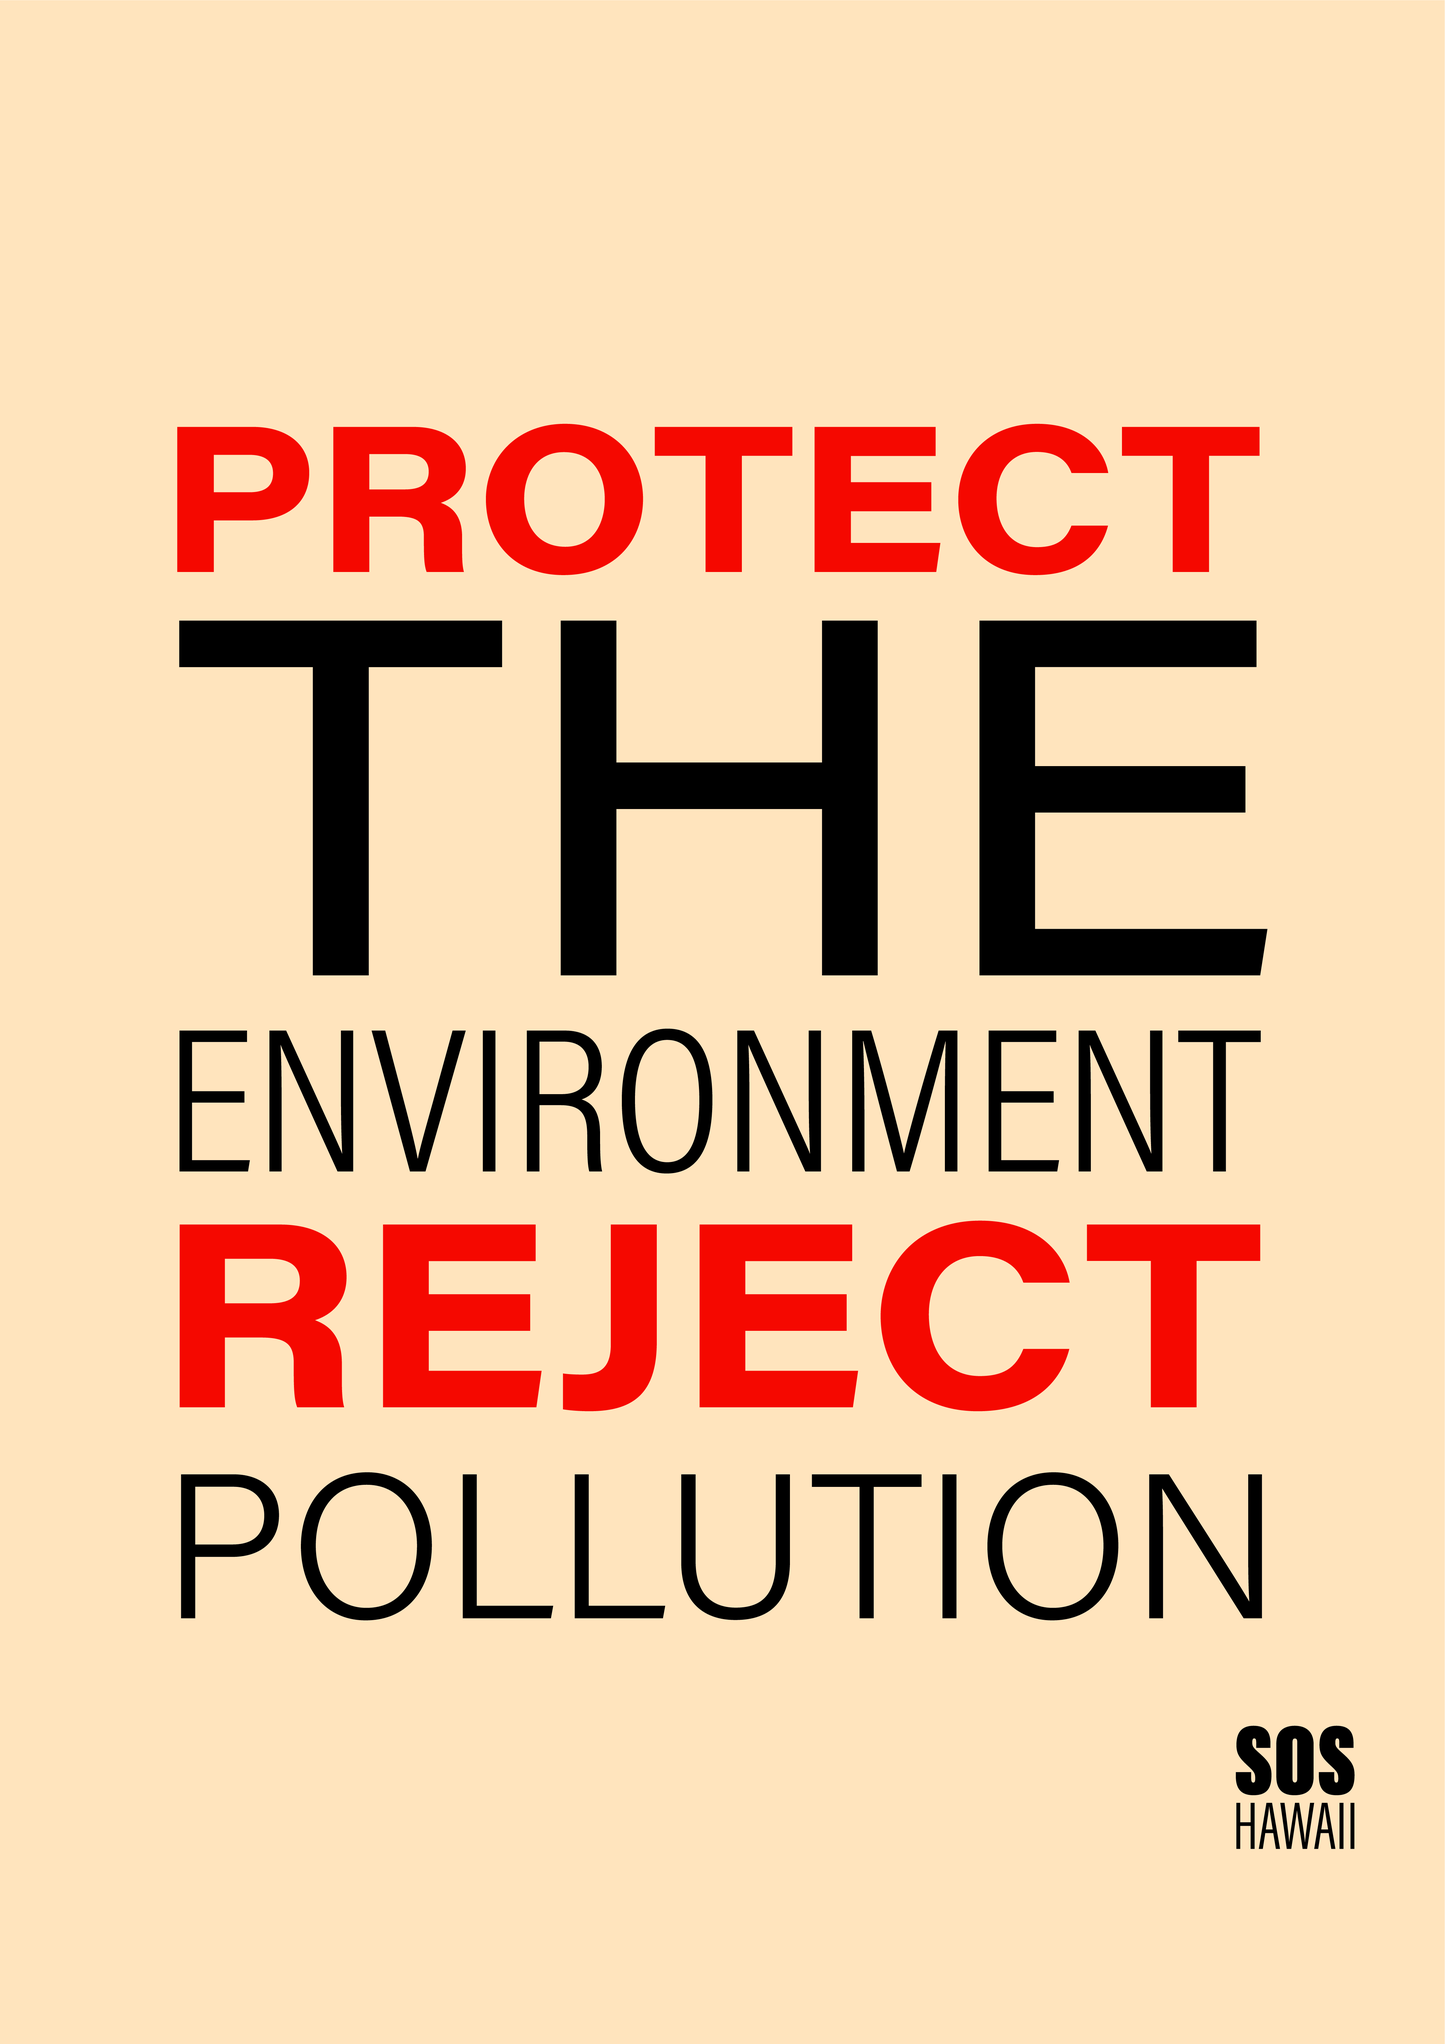
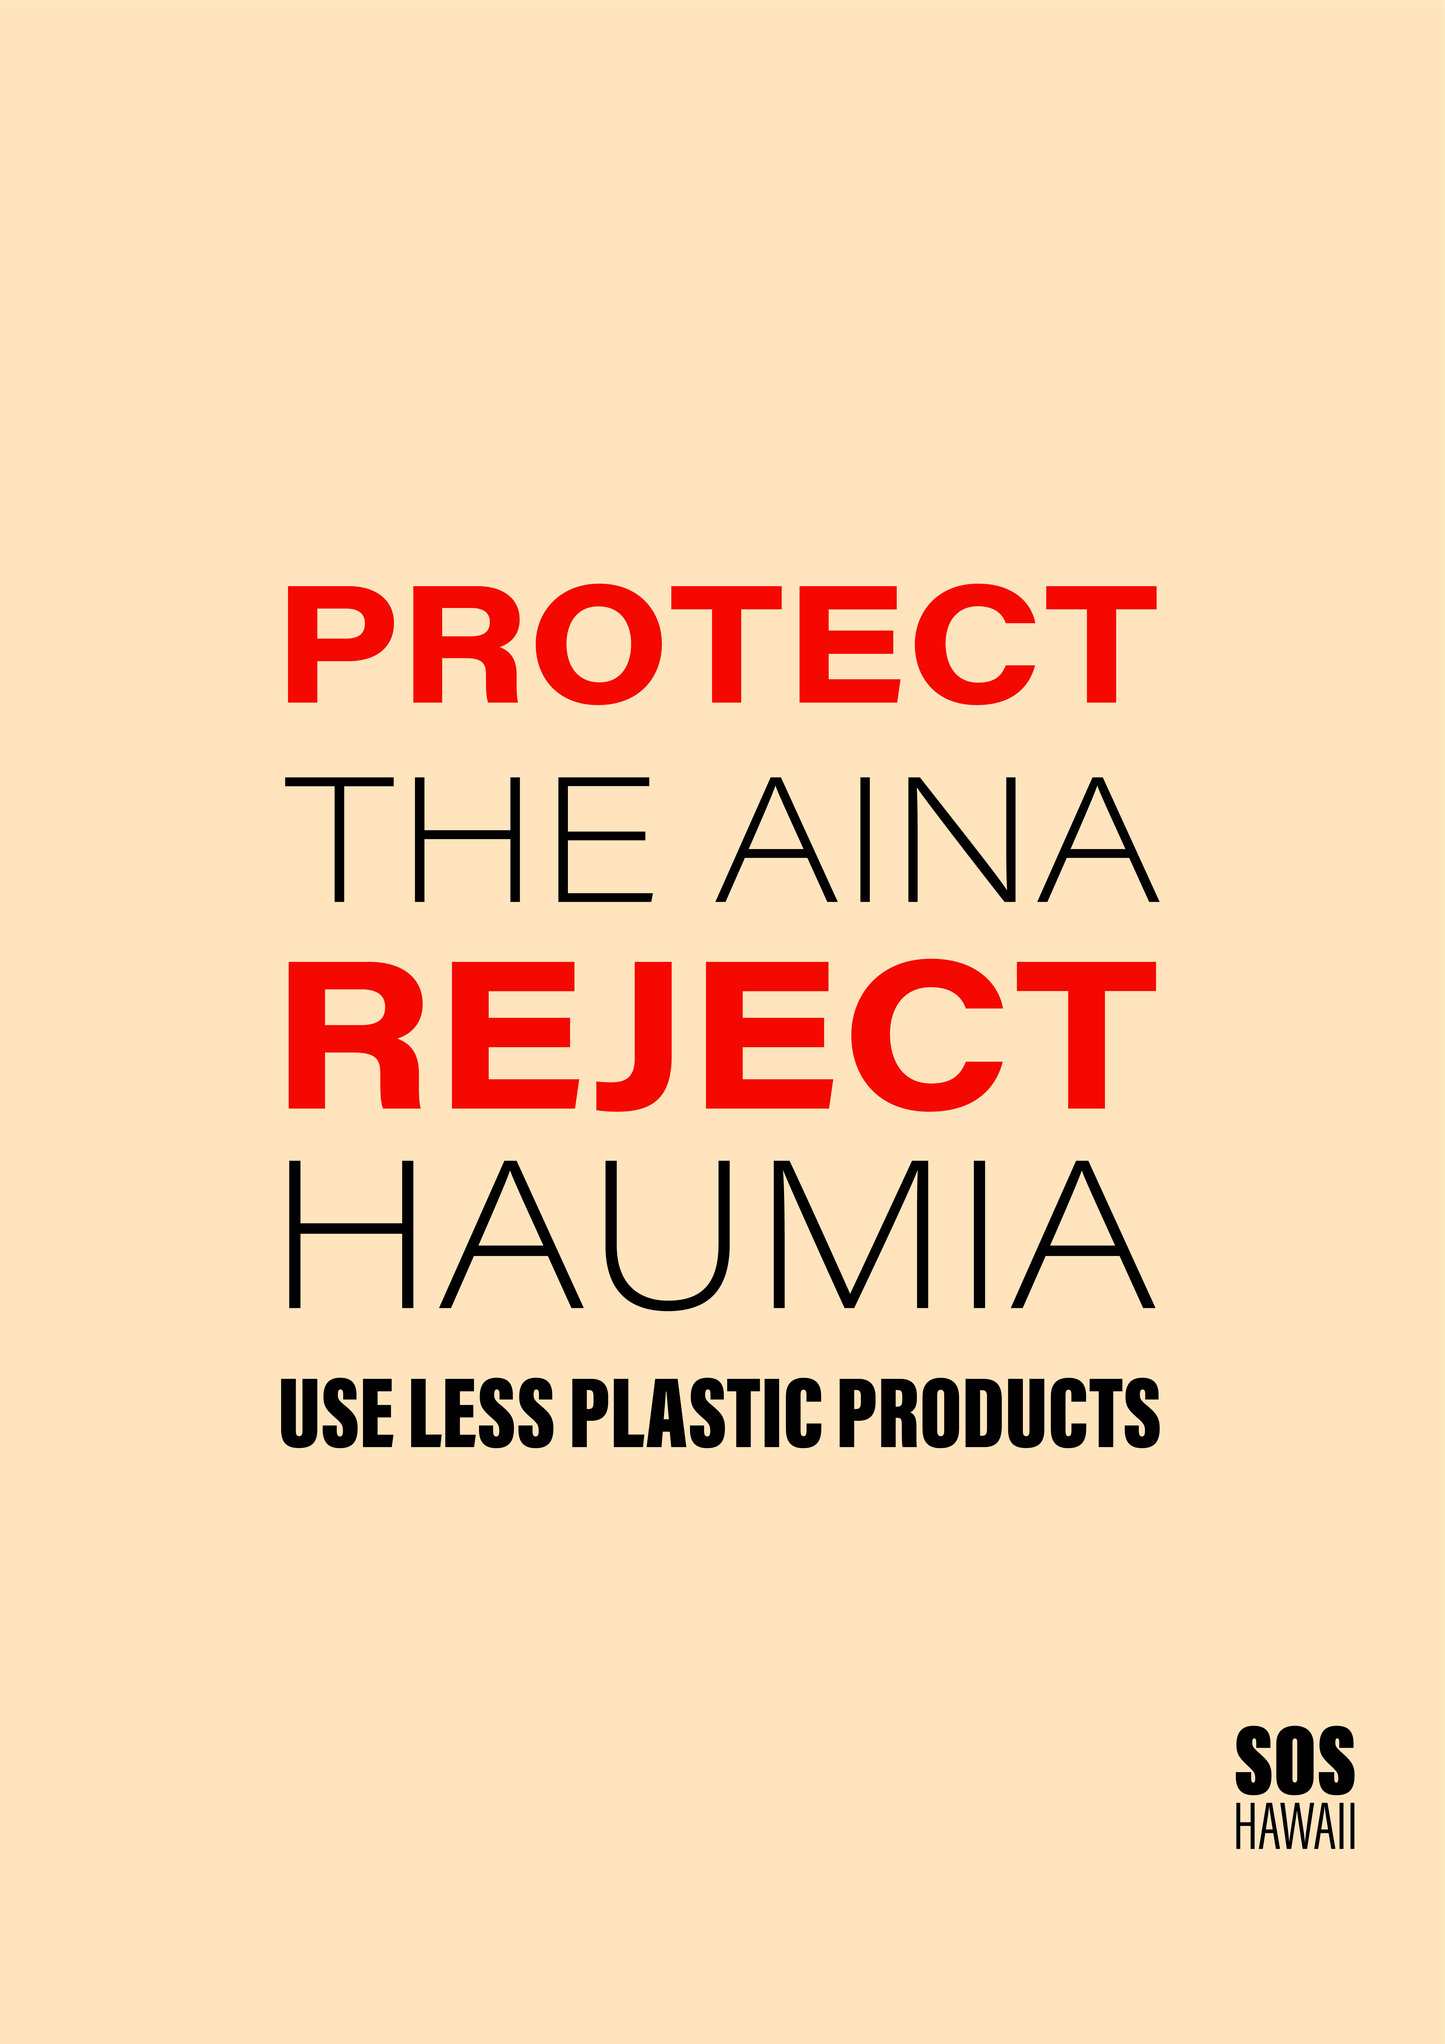
update

Changed region(s): [[0.1245, 0.1869, 0.8712, 0.8099]]

diff --git a/css/style.css b/css/style.css
@@ -397,9 +397,9 @@ h1.type {
 
 @media (min-width: 768px){
 
-  .projectinfo p {
+  /* .projectinfo p {
     columns: 2;
-  }
+  } */
 
   .meta-info .meta-list {
     columns: 2;
@@ -649,7 +649,7 @@ h1.type {
 @media (max-width: 320px) {
 
   .Iam {
-    padding: 2em 5em;
+    padding: auto 0;
     font: normal calc(12px + 1vw) "Montserrat", sans-serif;
     color: #fff;
     margin-left:6em;
@@ -739,7 +739,7 @@ h1.type {
     height: 250px;
     border-radius: 3px;
     overflow: hidden;
-    position: relative;
+    position: inline;
     box-shadow: 0 3px 6px rgba(0, 0, 0, 0.2);
   }
   .carousel:hover .controls {
@@ -764,13 +764,14 @@ h1.type {
     height: 40px;
     width: 40px;
     border-radius: 50%;
-    background-color: rgba(255, 255, 255, 0.7);
+    background-color: rgba(255,243,59,1);
     opacity: 0.5;
     transition: ease 0.3s;
    
   }
   .carousel .controls .control:hover {
     opacity: 1;
+    cursor: pointer;
   }
   .carousel .slides {
     position: absolute;
@@ -778,13 +779,126 @@ h1.type {
     transform: translateY(-50%);
     display: flex;
     width: 100%;
+    height: 100vh;
     transition: 1s ease-in-out all;
   }
   .carousel .slides .slide {
     min-width: 100%;
     min-height: 250px;
     height: auto;
+    background-image: url("/img/soshawaii-slide.png");
+    background-position-x: center;
+    background-repeat: no-repeat;
+
+  }
+  .carousel .slides .book {
+    min-width: 100%;
+    min-height: 250px;
+    height: auto;
+    background-image: url("/img/bookcovers-slide.png");
+    background-position-x: center;
+    background-repeat: no-repeat;
+  }
+
+  .carousel .slides .bangkok {
+    min-width: 100%;
+    min-height: 250px;
+    height: auto;
+    background-image: url("/img/bookcovers-slide.png");
+    background-position-x: center;
+    background-repeat: no-repeat;
   }
   .carousel.img {
     margin-top: -1em;
   }
+  @media (min-width: 500px) {
+    .hero.sos {
+    background-image: url("/soshawaii/img/PosterMockup1.png");
+    background-repeat: no-repeat;
+    background-size: cover;
+    background-position: center;
+  }
+}
+@media (max-width: 500px) {
+  .hero.sos {
+    background-image: url("/soshawaii/img/PosterMockup1-small.png");
+    background-repeat: no-repeat;
+    background-size: cover;
+    background-position: center;
+  }
+}
+
+@media (max-width: 500px) {
+  .hero.brochure {
+    background-image: url("/kobayashikiyochika/img/brochure\ front.png");
+    background-repeat: no-repeat;
+    background-size: cover;
+    background-position: center;
+  }
+}
+
+@media (max-width: 500px) {
+  .hero.brochure {
+    background-image: url("/img/bookcovers.jpg");
+    background-repeat: no-repeat;
+    background-size: cover;
+    background-position: center;
+  }
+}
+@media (max-width: 500px) {
+  .hero.happea {
+    background-image: url("/happea/img/JoannaYee_Happea_Packaging2.jpg");
+    background-repeat: no-repeat;
+    background-size: cover;
+    background-position: center;
+  }
+}
+@media (min-width: 768px) {
+  .row {
+    margin-left: -1%;
+    margin-right: -1%;
+    display: flex;
+    flex-wrap: wrap;
+    justify-content: center;
+  }
+  .row.swapped {
+    flex-direction: row-reverse;
+  }
+  .row.centered {
+    flex-direction: column;
+  }
+  .row.centered .column {
+    flex-grow: 0;
+  }
+  .row > .column {
+    margin: 0 1% 2% 1%;
+    flex-grow: 1;
+  }
+  .row > .column.one-half {
+    width: 48%;
+  }
+  .row > .column.one-third {
+    width: 31.3333%;
+  }
+  .row > .column.two-thirds {
+    width: 64.6666%;
+  }
+  .row > .column.one-fourth {
+    width: 23%;
+  }
+  .row > .column.three-fourths {
+    width: 73%;
+  }
+  .row > .column.push-one-third {
+    margin-left: 34.3333%;
+  }
+  .row > .column.push-one-fourth {
+    margin-left: 26%;
+  }
+  .row > .column.centered {
+    flex-grow: 0;
+  }
+}
+.one-half {
+  padding: 1.5em;
+}

diff --git a/soshawaii/index.html b/soshawaii/index.html
@@ -3,7 +3,7 @@
 
 <head>
     <meta charset="utf-8" />
-    <title>Joanna Yee | Rotoscope</title>
+    <title>Joanna Yee | Soshawaii</title>
     <meta name="description" content="This is a custom book cover that is part of John Doe's Portfolio" />
 
     <!-- VIEWPORT FOR MOBILE -->
@@ -37,8 +37,8 @@
 
     <main>
 
-        <section class="hero revealer">
-                  <img src="img/PosterMockup1.jpg"></img>
+        <section class="hero revealer sos">
+                  <!-- <img src="img/PosterMockup1.png"></img> -->
         </section>
 
 
@@ -46,7 +46,7 @@
             <div class="container revealer">
                 <h1 class="headline">Soshawaii</h1>
                 <h2 class="subheadline">Print and digital</h2>
-                <p> Soshawaii is a non-profit organization that serves to bring green-living awareness through green sustainability campaigns, community cleanups, and educational workshops.Their mission is to help people understand the environmental effects that take place on the island.</p>
+                <p> Soshawaii is a non-profit organization that serves to bring green-living awareness through green sustainability campaigns, community cleanups, and educational workshops. Their mission is to help people understand the environmental effects that take place on the island.</p>
                 <ul class="meta-list">
                     <li><span>Year:</span> Spring 2020</li>
                     <li><span>Medium:</span> Digital</li>
@@ -76,10 +76,10 @@
             <div class="container revealer">
                 <div class="subcontent-image">
                     <h1 class="head">Posters</h1>
-                    <img src="img/Posters-09.jpg"My Book Cover Designs Stacked" />
+                    <img src="img/Posters-9.jpg"My Book Cover Designs Stacked" />
                 </div>
                 <div class="subcontent-image">
-                    <img src="img/Posters-08.jpg"My Book Cover Designs Stacked" />
+                    <img src="img/Posters-8.jpg"My Book Cover Designs Stacked" />
                 </div>
                 <div class="subcontent-image">
                     <img src="img/Posters-10.jpg"My Book Cover Designs Stacked" />
@@ -90,23 +90,6 @@
             </div>
         </section>
         <a href="../index.html" class="button">See More Work</a>
-<!-- 
-        <section class="meta-info">
-            <div class="container revealer">
-                <div class="meta-text">
-                    <h3>About</h3>
-                    <p>Rotoscope project</p>
-                </div>
-                <ul class="meta-list">
-                    <li><span>Year:</span> Spring 2019</li>
-                    <li><span>Medium:</span> Digital</li>
-                    <li><span>Role:</span> Sole/principle Designer</li>
-                    <li><span>Software:</span> Photoshop and After Effects</li>
-                    <li><span>Tags:</span> Motion</li>
-                </ul>
-                <a href="../index.html" class="button">See More Work</a>
-            </div>
-        </section> -->
 
     </main>
 

diff --git a/index.html b/index.html
@@ -42,9 +42,11 @@
         <section class="home wrapper fade-in-and-down">
             <div class="carousel">
                 <div class="slides">
-                  <a href="bookcovers" img src="img/bookcovers.jpg" alt="slide image" class="slide"></a>
-                 <img src="img/citylogo_thumbnail.png" alt="slide image" class="slide">
-                  <img src="https://picsum.photos/1280/720?random=3" alt="slide image" class="slide">
+                  <a href="/bookcovers/" class="book"></a>
+
+                  <a href="/soshawaii/"  class="slide"></a>  
+        
+                  <a href="/soshawaii/"  class="slide"></a>
                 </div>
                 <div class="controls">
                   <div class="control prev-slide">&#9668;</div>
@@ -64,7 +66,7 @@
                a illustrator<br />
                <br />
                 <br />
-                a person
+                a creative thinker
                 </div>
             </b>
             
@@ -82,10 +84,10 @@
                 <div class="thumbgrid mixcontainer fade-and-move-in">
                     <a href="rotoscope/index.html" class="mix motion" title="Rotoscope | Motion"><img src="img/rotoscope.png" alt="Rotoscope"/></a>
                     <a href="citylogo" class="mix print" title="Bangkok | Print"><img src="img/citylogo_thumbnail.png" alt="Bangkok"/></a>
-                    <a href="soshawaii" class="mix print" title="Soshawaii | Print"><img src="/soshawaii/img/PosterMockup1.jpg" alt="Bangkok"/></a>
+                    <a href="soshawaii" class="mix print" title="Soshawaii | Print"><img src="/soshawaii/img/soshawaii.png" alt="Bangkok"/></a>
                     <a href="bookcovers" class="mix print" title="Bookcover Trilogy | Print"><img src="img/JoannaYee_BookTrilogy.png" alt="Book covers"/></a>
-                    <a href="logosbookstore" class="mix print" title="Logos Bookstore | Print"><img src="/logosbookstore/img/logo.png" alt="Bangkok"/></a>
-                    <a href="kobayashikiyochika" class="mix  print" title="Brochure | Print"><img src="img/brochure.png" alt="Bangkok"/></a>
+                    <a href="logosbookstore" class="mix print" title="Logos Bookstore | Print"><img src="/logosbookstore/img/logos.png" alt="Bangkok"/></a>
+                    <a href="kobayashikiyochika" class="mix  print" title="Brochure | Print"><img src="/kobayashikiyochika/img/brochure1.png" alt="Bangkok"/></a>
                     <a href="happea" class="mix print" title="Happea | Print"><img src="img/JoannaYee_Happea.png" alt="Bangkok"/></a>
                    
                

diff --git a/bookcovers/index.html b/bookcovers/index.html
@@ -3,7 +3,7 @@
 
 <head>
     <meta charset="utf-8" />
-    <title>Joanna Yee | Rotoscope</title>
+    <title>Joanna Yee | Bookcovers</title>
     <meta name="description" content="This is a custom book cover that is part of John Doe's Portfolio" />
 
     <!-- VIEWPORT FOR MOBILE -->
@@ -38,22 +38,22 @@
     <main>
 
         <section class="hero revealer">
-            <img src="img/bookstore.png"></img>
+            <img src="/img/booktrilogy1_thumbnail.png"></img>
 
         </section>
 
 
         <section class="projectinfo">
             <div class="container revealer">
-                <h1 class="headline">Rotoscope</h1>
-                <h2 class="subheadline">Motion</h2>
-                <p>I had a hard time picking a subject to film for the rotoscope project, but after church while I was waiting, I saw two children playing around and thought to myself I should film them. When I was watching through the video, I thought back to my childhood. Childhood is a time where there's no worries about the future, a time where we focused on playing, making friends, and wondering what's for snack or lunch time. Sometimes we take the smallest things in life for granted.</p>
+                <h1 class="headline">Bookcovers</h1>
+                <h2 class="subheadline">Print</h2>
+                <p>The book covers were based on podcasts (“Parasites, Stochasticity, and When Brain Attack!”) of WYNC’s Radiolab. I used unusual colors and images to generate confusion and curiosity. The broccoli sandwich represents people’s perspectives on parasites. The coin on its side symbolizes chance. The diary represents secrets kept by the brain.</p>
                 <ul class="meta-list">
                     <li><span>Year:</span> 2019</li>
                     <li><span>Medium:</span> Digital</li>
                     <li><span>Role:</span> Sole/principle Designer</li>
-                    <li><span>Software:</span> Photoshop and After Effects</li>
-                    <li><span>Tags:</span> Motion</li>
+                    <li><span>Software:</span> Photoshop and InDesign</li>
+                    <li><span>Tags:</span> Print</li>
                 </ul>
                 <a href="../index.html" class="button">See More Work</a>
             </div>

diff --git a/happea/index.html b/happea/index.html
@@ -3,7 +3,7 @@
 
 <head>
     <meta charset="utf-8" />
-    <title>Joanna Yee | Rotoscope</title>
+    <title>Joanna Yee | Happea</title>
     <meta name="description" content="This is a custom book cover that is part of John Doe's Portfolio" />
 
     <!-- VIEWPORT FOR MOBILE -->
@@ -37,23 +37,21 @@
 
     <main>
 
-        <section class="hero revealer">
-            <video  autoplay muted loop id="video">
-                  <source src="../video/JoannaYee_Rotoscope.mp4" type="video/mp4">
-              </video> 
+        <section class="hero revealer happea">
+            
         </section>
 
 
         <section class="projectinfo">
             <div class="container revealer">
-                <h1 class="headline">Rotoscope</h1>
-                <h2 class="subheadline">Motion</h2>
-                <p>I had a hard time picking a subject to film for the rotoscope project, but after church while I was waiting, I saw two children playing around and thought to myself I should film them. When I was watching through the video, I thought back to my childhood. Childhood is a time where there's no worries about the future, a time where we focused on playing, making friends, and wondering what's for snack or lunch time. Sometimes we take the smallest things in life for granted.</p>
+                <h1 class="headline">Happea</h1>
+                <h2 class="subheadline">Branding</h2>
+                <p>I created a brand identity for young women–18-30–who feels down in the dumps; mentally and emotionally, and need a pick-me up.</p>
                 <ul class="meta-list">
                     <li><span>Year:</span> 2019</li>
                     <li><span>Medium:</span> Digital</li>
                     <li><span>Role:</span> Sole/principle Designer</li>
-                    <li><span>Software:</span> Photoshop and After Effects</li>
+                    <li><span>Software:</span> Photoshop, Illustrator, and InDesign</li>
                     <li><span>Tags:</span> Motion</li>
                 </ul>
                 <a href="../index.html" class="button">See More Work</a>

diff --git a/logosbookstore/index.html b/logosbookstore/index.html
@@ -3,7 +3,7 @@
 
 <head>
     <meta charset="utf-8" />
-    <title>Joanna Yee | Rotoscope</title>
+    <title>Joanna Yee | Logos Bookstore</title>
     <meta name="description" content="This is a custom book cover that is part of John Doe's Portfolio" />
 
     <!-- VIEWPORT FOR MOBILE -->
@@ -45,15 +45,15 @@
 
         <section class="projectinfo">
             <div class="container revealer">
-                <h1 class="headline">Rotoscope</h1>
-                <h2 class="subheadline">Motion</h2>
-                <p>I had a hard time picking a subject to film for the rotoscope project, but after church while I was waiting, I saw two children playing around and thought to myself I should film them. When I was watching through the video, I thought back to my childhood. Childhood is a time where there's no worries about the future, a time where we focused on playing, making friends, and wondering what's for snack or lunch time. Sometimes we take the smallest things in life for granted.</p>
+                <h1 class="headline">Logos Bookstore</h1>
+                <h2 class="subheadline">Print</h2>
+                <p>I strive to modernize Logos Bookstore of Hawai‘i’s logo to appeal to their diverse audience. I combined Christianity concepts, and books together, which formed books as candles. The three candles represent The Trinity.</p>
                 <ul class="meta-list">
                     <li><span>Year:</span> 2019</li>
                     <li><span>Medium:</span> Digital</li>
                     <li><span>Role:</span> Sole/principle Designer</li>
-                    <li><span>Software:</span> Photoshop and After Effects</li>
-                    <li><span>Tags:</span> Motion</li>
+                    <li><span>Software:</span> Illustrator</li>
+                    <li><span>Tags:</span> Print</li>
                 </ul>
                 <a href="../index.html" class="button">See More Work</a>
             </div>

diff --git a/rotoscope/index.html b/rotoscope/index.html
@@ -37,7 +37,7 @@
 
     <main>
 
-        <section class="hero revealer">
+        <section class="hero revealer rotoscope">
             <video  autoplay muted loop id="video">
                   <source src="../video/JoannaYee_Rotoscope.mp4" type="video/mp4">
               </video> 
